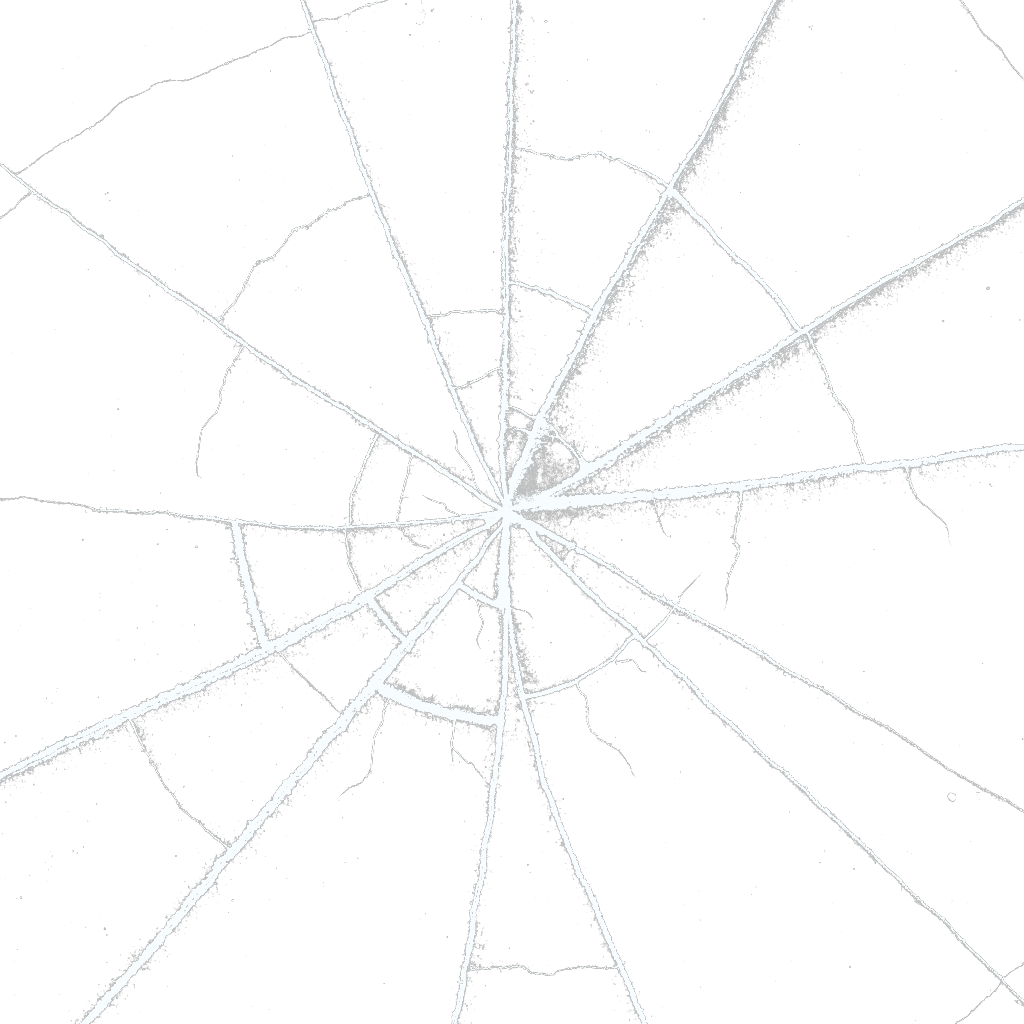
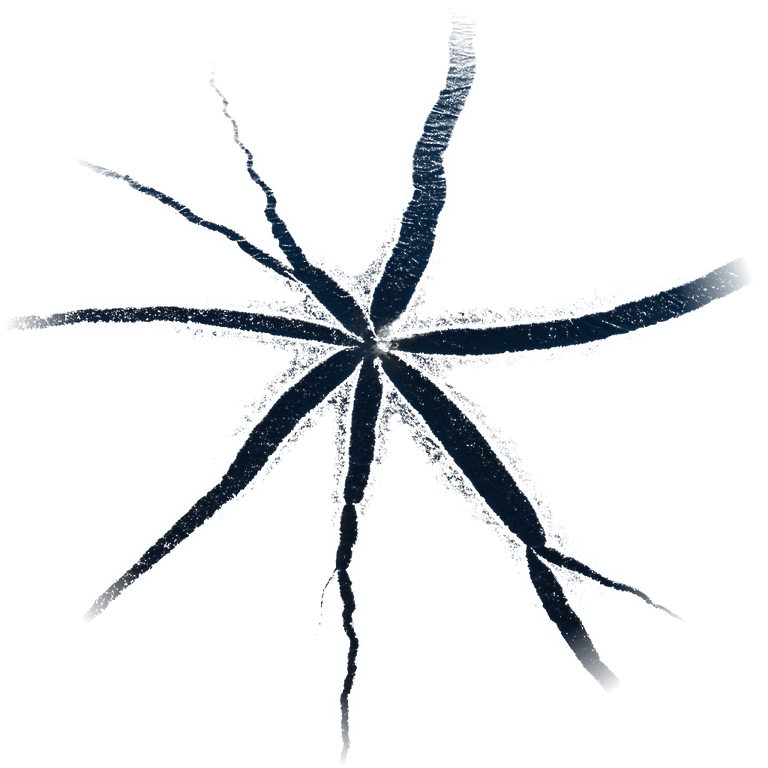
Winter ice: polygon breaks everywhere, Recraft dark crack sprites from real-ice references, scars stay round holes, ice-masked fractures, demo finishes each strike
Claude-Session: https://claude.ai/code/session_01NdRTHmZa7DaSiBUh1xhUdm

diff --git a/Ripple/Game/IceField.swift b/Ripple/Game/IceField.swift
@@ -18,6 +18,9 @@ final class IceField {
     /// Where the sheet has been struck, how far its ring of fractures
     /// reaches, and which painted fracture shows it, at what turn.
     private(set) var strikes: [(centre: CGPoint, ring: CGFloat, pattern: Int, turn: Float)] = []
+    /// Strikes that have broken through: the hole is open, and the fractures
+    /// that ran out beyond it stay in the sheet around it, as they do.
+    private(set) var scars: [(centre: CGPoint, ring: CGFloat, pattern: Int, turn: Float)] = []
     private(set) var dirty = true
     private var seed: UInt32 = 11
 
@@ -137,13 +140,35 @@ final class IceField {
         crackLines.append(([a, CGPoint(x: (a.x + b.x) / 2, y: (a.y + b.y) / 2), b], lineWidth))
     }
 
+    /// Ice never gives way in a circle. This rings a point with straight
+    /// chords at ragged radii and opens everything inside them, crossing any
+    /// radial fractures: an irregular polygon of a hole. Returns the area.
+    @discardableResult
+    func breakPolygon(at p: CGPoint, ring: CGFloat) -> CGFloat {
+        let n = 6 + Int(noise() * 4)
+        let base = noise() * 2 * .pi
+        var tips: [CGPoint] = []
+        for k in 0..<n {
+            let angle = base + Float(k) / Float(n) * 2 * .pi + (noise() - 0.5) * 0.6
+            let r = ring * CGFloat(0.55 + noise() * 0.8)
+            tips.append(CGPoint(x: p.x + CGFloat(cos(angle)) * r, y: p.y + CGFloat(sin(angle)) * r))
+        }
+        for k in 0..<n { straightFracture(from: tips[k], to: tips[(k + 1) % n], kind: 2, lineWidth: 2) }
+        // Start just inside, in case the point itself sits on a fracture.
+        let opened = breakThrough(at: p, limit: ring * 1.6, crossing: true)
+        return opened
+    }
+
     /// The strike whose ring this point lies inside, if any.
     func strike(containing p: CGPoint) -> (centre: CGPoint, ring: CGFloat, pattern: Int, turn: Float)? {
         strikes.first { hypot($0.centre.x - p.x, $0.centre.y - p.y) < $0.ring }
     }
 
+    /// The strike has broken through: its fractures stay as a scar around the hole.
     func forgetStrike(at centre: CGPoint) {
-        strikes.removeAll { $0.centre == centre }
+        if let i = strikes.firstIndex(where: { $0.centre == centre }) {
+            scars.append(strikes.remove(at: i))
+        }
     }
 
     /// The sheet gives way around a point: every cell reachable from it
@@ -201,8 +226,8 @@ final class IceField {
     func bite(nearestTo p: CGPoint, range: CGFloat) -> CGPoint? {
         guard let edge = nearestIce(to: p, range: range) else { return nil }
         let away = atan2(Float(edge.y - p.y), Float(edge.x - p.x))
-        let inward = CGPoint(x: edge.x + CGFloat(cos(away)) * 8, y: edge.y + CGFloat(sin(away)) * 8)
-        breakThrough(at: inward, limit: CGFloat(40 + noise() * 40), crossing: true)
+        let inward = CGPoint(x: edge.x + CGFloat(cos(away)) * 12, y: edge.y + CGFloat(sin(away)) * 12)
+        breakPolygon(at: inward, ring: CGFloat(34 + noise() * 30))
         dirty = true
         return edge
     }

diff --git a/Ripple/Game/GameController.swift b/Ripple/Game/GameController.swift
@@ -194,7 +194,8 @@ final class GameController: ObservableObject, TouchInput {
             field.forgetStrike(at: strike.centre)
             breakThrough(at: point, limit: strike.ring * 1.1, crossing: true)
         } else if field.isEdge(at: point, within: 46) {
-            breakThrough(at: point, limit: 95, crossing: true)
+            let opened = field.breakPolygon(at: point, ring: CGFloat.random(in: 60...95))
+            afterBreak(at: point, opened: opened, limit: 90)
         } else {
             field.strike(at: point)
         }
@@ -205,17 +206,28 @@ final class GameController: ObservableObject, TouchInput {
     /// piece it will take out and turned at random; when the piece goes,
     /// the fracture goes with it.
     private func rebuildCrackSprites(_ field: IceField) {
-        crackSprites = field.strikes.map { strike in
-            let side = strike.ring * 1.9
-            return Sprite("fracture_\(strike.pattern + 1)", at: strike.centre, size: CGSize(width: side, height: side),
-                          rotation: strike.turn, alpha: 0.92, z: 0.012)
+        func sprite(_ strike: (centre: CGPoint, ring: CGFloat, pattern: Int, turn: Float), alpha: Float) -> Sprite {
+            // The painted fractures run well past the piece that gives way,
+            // so a hole is left ringed by the cracks that made it.
+            let side = strike.ring * 2.9
+            var s = Sprite("fracture_\(strike.pattern + 1)", at: strike.centre, size: CGSize(width: side, height: side),
+                           rotation: strike.turn, alpha: alpha, z: 0.012)
+            s.gpu.mode |= SpriteInstance.maskIce
+            return s
         }
+        crackSprites = field.scars.map { sprite($0, alpha: 0.85) } + field.strikes.map { sprite($0, alpha: 0.95) }
     }
 
     private func breakThrough(at point: CGPoint, limit: CGFloat, crossing: Bool) {
         guard let field = iceField else { return }
         let opened = field.breakThrough(at: point, limit: limit, crossing: crossing)
         guard opened > 0 else { field.strike(at: point); return }
+        afterBreak(at: point, opened: opened, limit: limit)
+    }
+
+    /// The splash, the chunks and the bookkeeping after any piece gives way.
+    private func afterBreak(at point: CGPoint, opened: CGFloat, limit: CGFloat) {
+        guard let field = iceField, opened > 0 else { return }
         haptics.holdRelease(charge: 0.9)
         renderer?.addSplat(at: point, in: viewSize, radius: 22, amplitude: -0.45)
         // Chunks in proportion to what gave way, drifting off to melt or beach.

diff --git a/Ripple/DemoScript.swift b/Ripple/DemoScript.swift
@@ -12,6 +12,7 @@ enum DemoScript {
     private static var syntheticID = 9000
     private static var holding = false
     private static var beats = 0
+    private static var lastIceTap: CGPoint?
     private static var attempts: [Int: Int] = [:]
 
     static var isEnabled: Bool {
@@ -46,8 +47,15 @@ enum DemoScript {
         // Ice first: tap a spot twice to break through, then work outward
         // from the holes with taps in the open water beside the edge.
         if let field = controller.iceField, field.fraction > 0.06 {
+            // Finish what was started: a struck spot still on ice gets its second tap.
+            if let last = lastIceTap, field.ice(at: last) > 0.5, field.strike(containing: last) != nil {
+                lastIceTap = nil
+                tap(controller, at: last, size: size)
+                return
+            }
             let centre = CGPoint(x: size.width / 2, y: size.height * 0.48)
             if field.ice(at: centre) > 0.5 {
+                lastIceTap = centre
                 tap(controller, at: centre, size: size)     // strike, then break through
             } else if let edge = field.nearestIce(to: centre, range: 2000) {
                 // Alternate: a tap on the fractured ice just inside the edge,
@@ -57,6 +65,7 @@ enum DemoScript {
                 // Strike well inside the sheet, then break it, then move on.
                 let deep = CGPoint(x: edge.x - dx / len * 150, y: edge.y - dy / len * 150)
                 let target = field.ice(at: deep) > 0.5 ? deep : CGPoint(x: edge.x - dx / len * 20, y: edge.y - dy / len * 20)
+                lastIceTap = target
                 tap(controller, at: target, size: size)
             }
             return

diff --git a/Ripple/Sprites.swift b/Ripple/Sprites.swift
@@ -27,6 +27,8 @@ struct SpriteInstance {
     static let weed: UInt32 = 32
     /// Stands up from its root on the surface plane (reeds).
     static let stands: UInt32 = 64
+    /// Only visible where the ice mask says ice (fractures).
+    static let maskIce: UInt32 = 128
 }
 
 struct SpriteParams {
@@ -236,7 +238,7 @@ final class SpriteBatch {
     func beginFrame() { cursor = 0 }
 
     /// Uploads the sprites and draws them in order, in runs by texture.
-    func draw(_ sprites: [Sprite], encoder: MTLRenderCommandEncoder, params: SpriteParams, field: MTLTexture, spines: MTLBuffer, camera: inout CameraParams) {
+    func draw(_ sprites: [Sprite], encoder: MTLRenderCommandEncoder, params: SpriteParams, field: MTLTexture, spines: MTLBuffer, camera: inout CameraParams, ice: MTLTexture? = nil) {
         guard !sprites.isEmpty else { return }
         let start = cursor
         let count = min(sprites.count, SpriteBatch.maxInstances - start)
@@ -257,6 +259,7 @@ final class SpriteBatch {
         encoder.setVertexBytes(&camera, length: MemoryLayout<CameraParams>.stride, index: 4)
         encoder.setVertexTexture(field, index: 0)
         encoder.setFragmentBytes(&p, length: MemoryLayout<SpriteParams>.stride, index: 0)
+        if let ice { encoder.setFragmentTexture(ice, index: 2) }
 
         var runStart = 0
         while runStart < count {

diff --git a/Ripple/WaterRenderer.swift b/Ripple/WaterRenderer.swift
@@ -749,7 +749,7 @@ final class WaterRenderer: NSObject, MTKViewDelegate {
                 encoder.drawPrimitives(type: .triangle, vertexStart: 0, vertexCount: 3)
 
                 floorBatch.beginFrame()
-                floorBatch.draw(submergedSprites, encoder: encoder, params: spriteParams, field: read, spines: spineBuffer, camera: &cam)
+                floorBatch.draw(submergedSprites, encoder: encoder, params: spriteParams, field: read, spines: spineBuffer, camera: &cam, ice: iceTexture ?? blankIce)
                 encoder.endEncoding()
             }
         }
@@ -780,7 +780,7 @@ final class WaterRenderer: NSObject, MTKViewDelegate {
 
             spriteParams.screen.w = 0
             surfaceBatch.beginFrame()
-            surfaceBatch.draw(surfaceSprites, encoder: encoder, params: spriteParams, field: read, spines: spineBuffer, camera: &cam)
+            surfaceBatch.draw(surfaceSprites, encoder: encoder, params: spriteParams, field: read, spines: spineBuffer, camera: &cam, ice: iceTexture ?? blankIce)
             encoder.endEncoding()
         }
 
